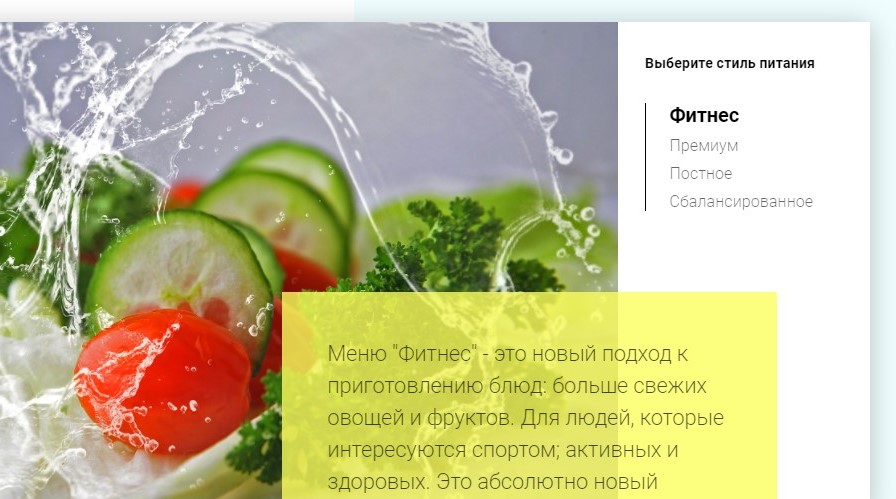
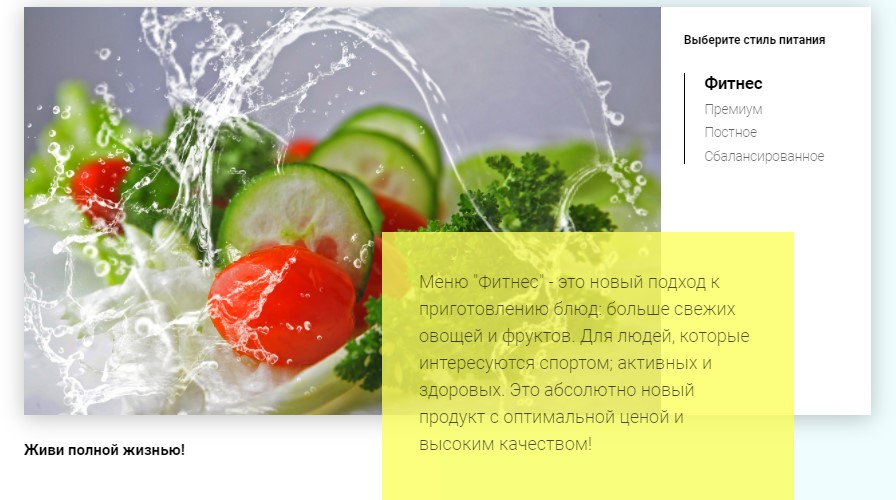
completed layout without burger

diff --git a/src/components/slider/Slider.scss b/src/components/slider/Slider.scss
@@ -171,4 +171,16 @@
     .slider-cards__projects-info {
         border-radius:0px;
     }
+    .slider-cards__text-title {
+        font-size: 24px;
+    }
+    .slider-cards__text-for-slider {
+        font-size: 18px;
+    }
+    .slider-cards__text-butn {
+        font-size: 16px;
+    }
+    .container-slider {
+        height: 350px;
+    }
 }

diff --git a/src/components/main/mainProjects/mainProjects.scss b/src/components/main/mainProjects/mainProjects.scss
@@ -29,5 +29,10 @@
             width: 100%;
         }
     }
+    @media screen and (max-width: 799.98px) {
+        .main-projects__slide {
+            max-height: 370px;
+        }
+    }
     
 }
